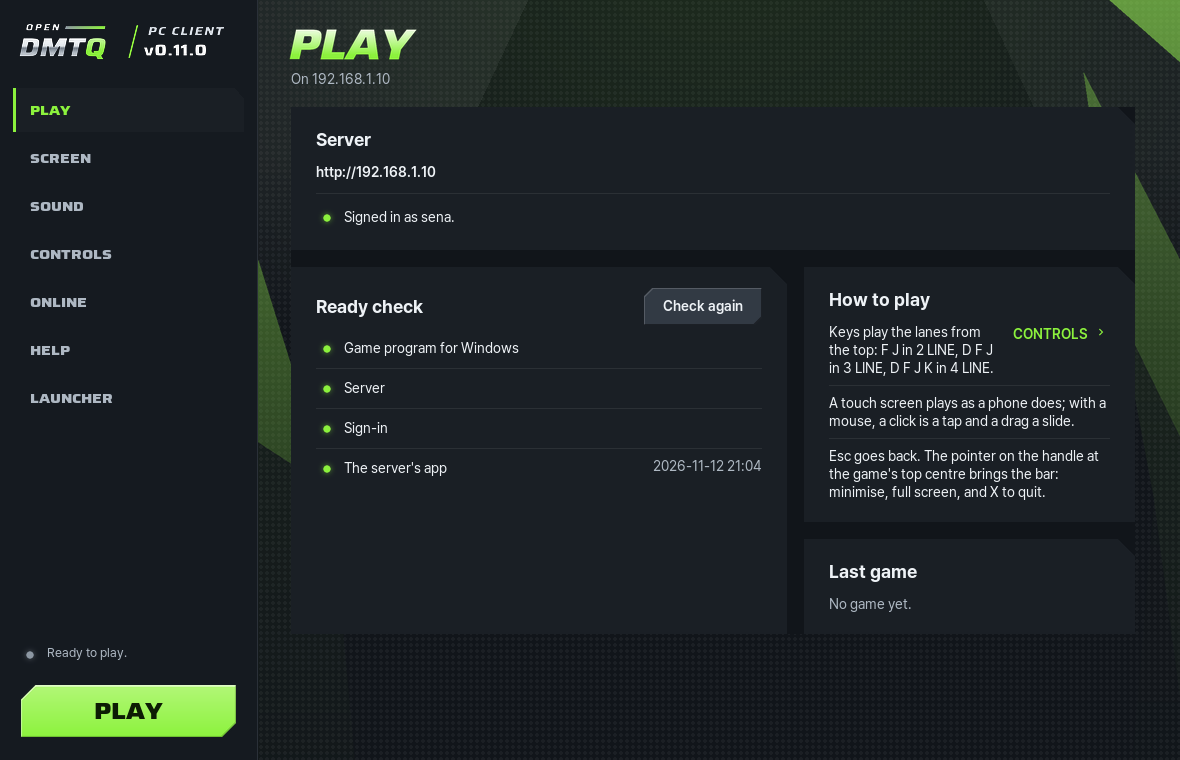
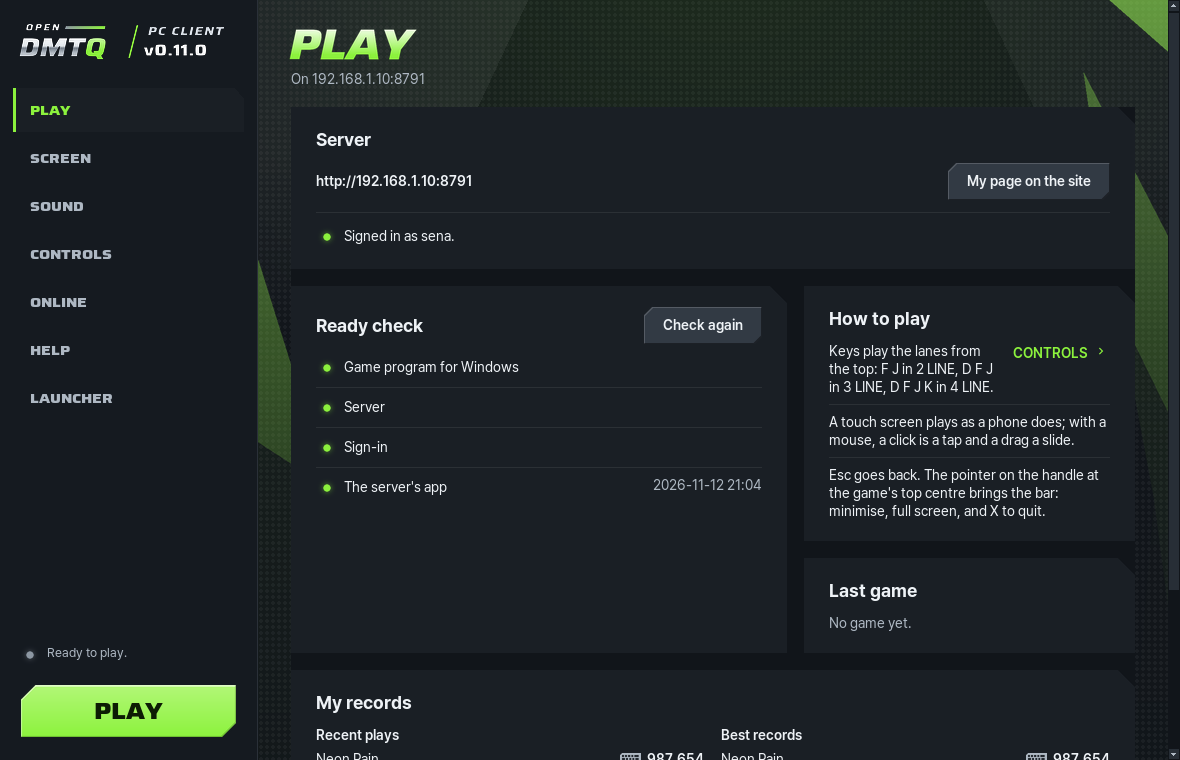
Docs: the PC client's PLAY page signed in with My page on the site, its records and the connection test's card in pictures, on the server's one port; the admin pages say press for the site's download button

diff --git a/tools/opendmtq_tools/strings.py b/tools/opendmtq_tools/strings.py
@@ -806,7 +806,7 @@ STRINGS = {
         "here.busy": "Play on this PC is under way already.",
         "here.not_this_pc": "Play on this PC works from the server PC itself: open these pages in its browser.",
         "here.elsewhere_title": "Play on a Windows PC",
-        "here.elsewhere": "The PC client runs on Windows. On a Windows PC, open <code>{url}</code>, sign in with your ID ({id}) and choose <b>Download the installer (.exe)</b>: it is set up for this server.",
+        "here.elsewhere": "The PC client runs on Windows. On a Windows PC, open <code>{url}</code>, sign in with your ID ({id}) and press <b>Download the installer (.exe)</b>: it is set up for this server.",
         "app.confirm_delete": "Delete {name}? This cannot be undone.",
         "app.already": "A build is already running.",
         "app.no_base": "No game app to build from yet: import the game's Android app first, in the setup's first step or with <code>./opendmtq import &lt;folder&gt;</code>.",
@@ -1798,7 +1798,7 @@ STRINGS = {
         "here.busy": "이 PC에서 플레이를 이미 준비하는 중입니다.",
         "here.not_this_pc": "이 PC에서 플레이는 서버 PC에서만 됩니다. 서버 PC의 브라우저에서 이 페이지를 여세요.",
         "here.elsewhere_title": "Windows PC에서 플레이",
-        "here.elsewhere": "PC 클라이언트는 Windows에서 실행됩니다. Windows PC에서 <code>{url}</code> 주소를 열고, 아이디({id})로 로그인한 뒤 <b>설치 파일(.exe) 내려받기</b>를 고르세요. 이 서버에 맞춰진 설치 파일을 받습니다.",
+        "here.elsewhere": "PC 클라이언트는 Windows에서 실행됩니다. Windows PC에서 <code>{url}</code> 주소를 열고, 아이디({id})로 로그인한 뒤 <b>설치 파일(.exe) 내려받기</b>를 누르세요. 이 서버에 맞춰진 설치 파일을 받습니다.",
         "app.confirm_delete": "{name} 파일을 삭제할까요? 되돌릴 수 없습니다.",
         "app.already": "이미 앱을 만드는 중입니다.",
         "app.no_base": "아직 앱을 만들 게임 앱이 없습니다. 먼저 게임의 안드로이드 앱을 가져오세요(설정의 첫 단계, 또는 <code>./opendmtq import &lt;폴더&gt;</code>).",

diff --git a/docs/windows-player.md b/docs/windows-player.md
@@ -60,7 +60,7 @@ Not tried yet: a Linux desktop's own graphics driver and sound, touch screens, a
 
 ## The launcher
 
-![The launcher's PLAY page: the server and the sign-in, the ready check, how to play with keyboard play's keys first, the last game, and PLAY](images/client-play.png)
+![The launcher's PLAY page: the server and the sign-in with My page on the site, the ready check, how to play with keyboard play's keys first, the last game, and PLAY](images/client-play.png)
 
 | Page | What it has |
 | :--- | :--- |
@@ -132,6 +132,8 @@ before it when a keyboard played it) and the place on that chart (#2 of 5); it i
 again after a game. An account the server's owner has not linked to a game player says so instead, and signed out the
 card is not there.
 
+![My records under the PLAY page's columns: three recent plays and three best records, each with its song, chart and when, the score with the keyboard's mark before those a keyboard played, and the place on the chart; under them what the keyboard's mark means](images/client-records.png)
+
 **Controls** sets keyboard play. **Play with keys** turns it on or off (on at first). While it is on, a table shows the
 lanes of 2, 3 and 4 LINE from the top, each with a box for its key and one for a second key: click a box (or Tab to it
 and press Enter), then press the key. The key goes in by its place on the keyboard, and is named as the US layout's key
@@ -161,6 +163,8 @@ the clipboard:
 | Broadcasts | The broadcast state the player asks for between songs |
 | Downloads | The app and the client data's list of files, by their headers alone: nothing is downloaded |
 | Round trip | Five small asks: the time in the middle, the fastest and the slowest |
+
+![The Online page's connection test: Test connection and Forget at the server card's title, then the test's card with Copy, its one-line verdict and a row for each step with its lamp, what it found and how long it took](images/client-test.png)
 
 A step after one that did not get through says it was not tried. When nothing answers on the address's port, the test
 also asks the same host on 8791 and the ports a new server takes when that one is taken (to 8799): an OpenDMTQ server
